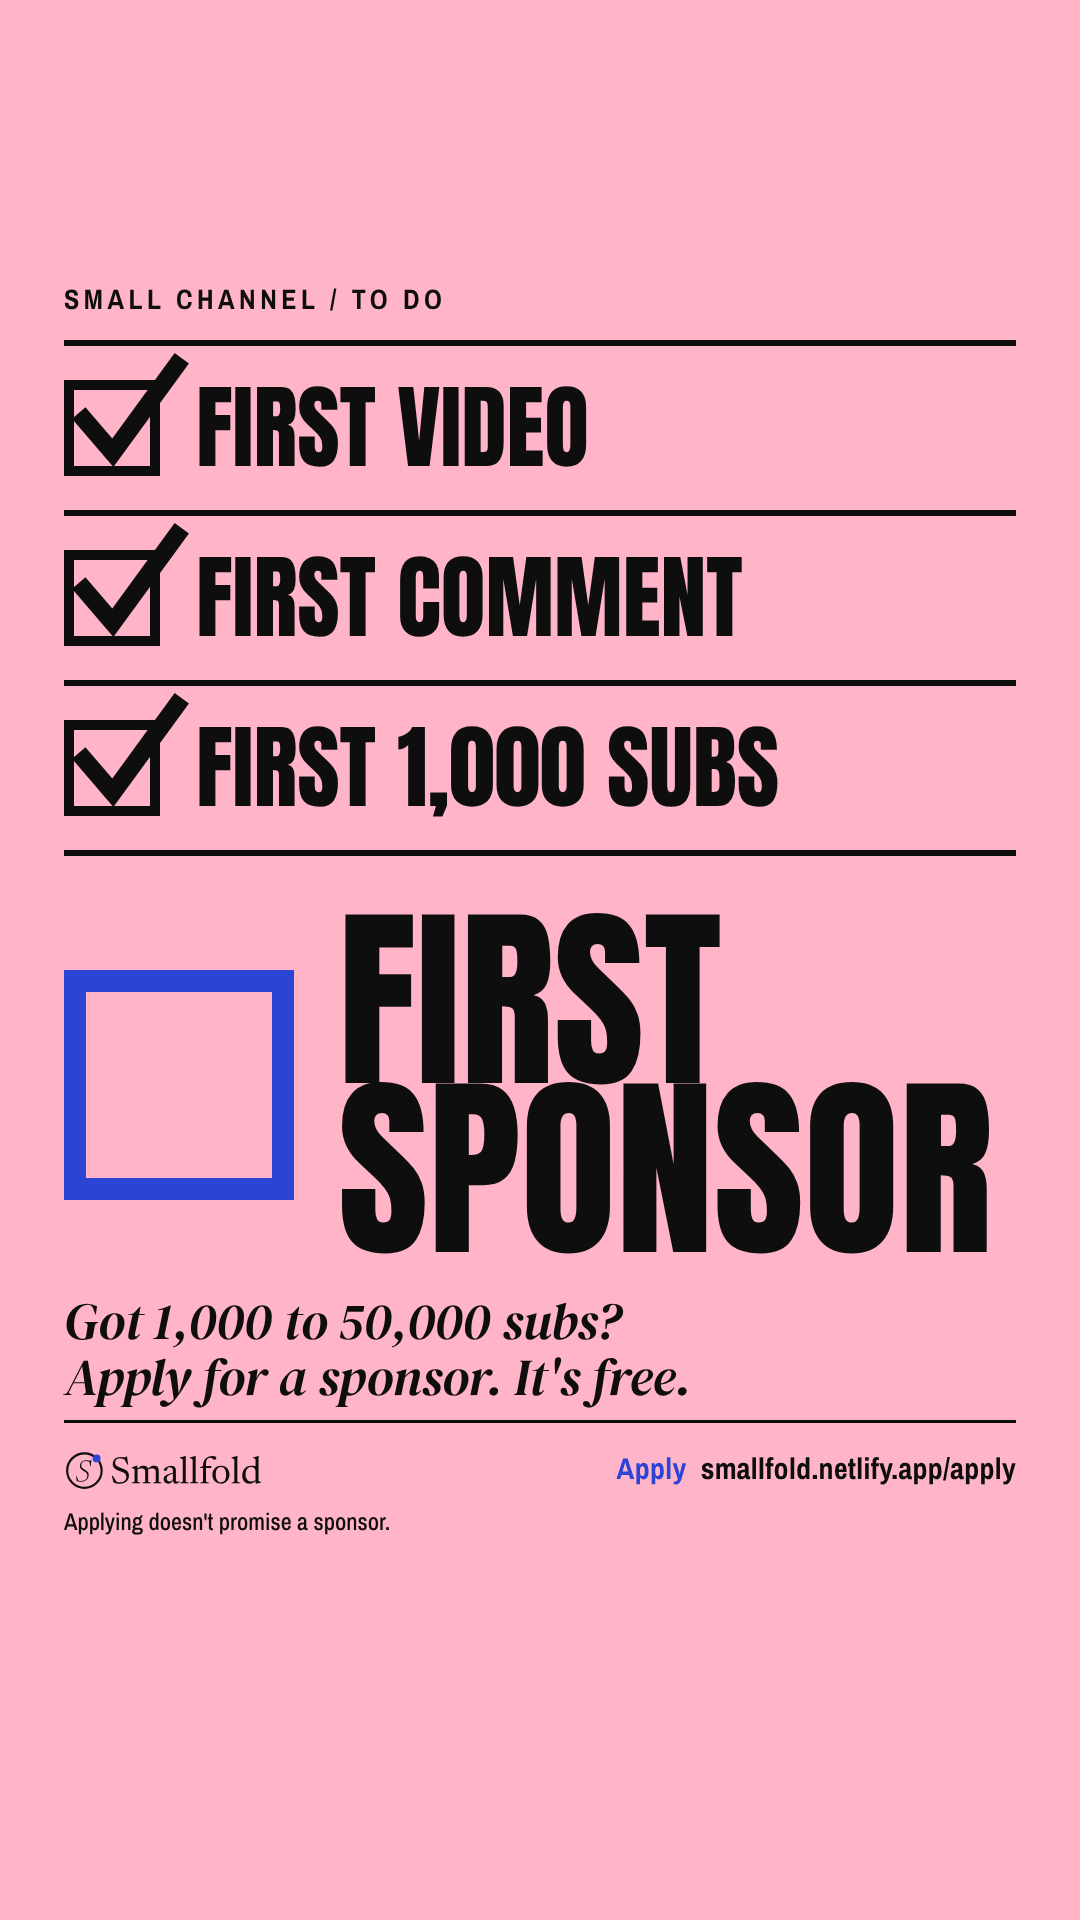
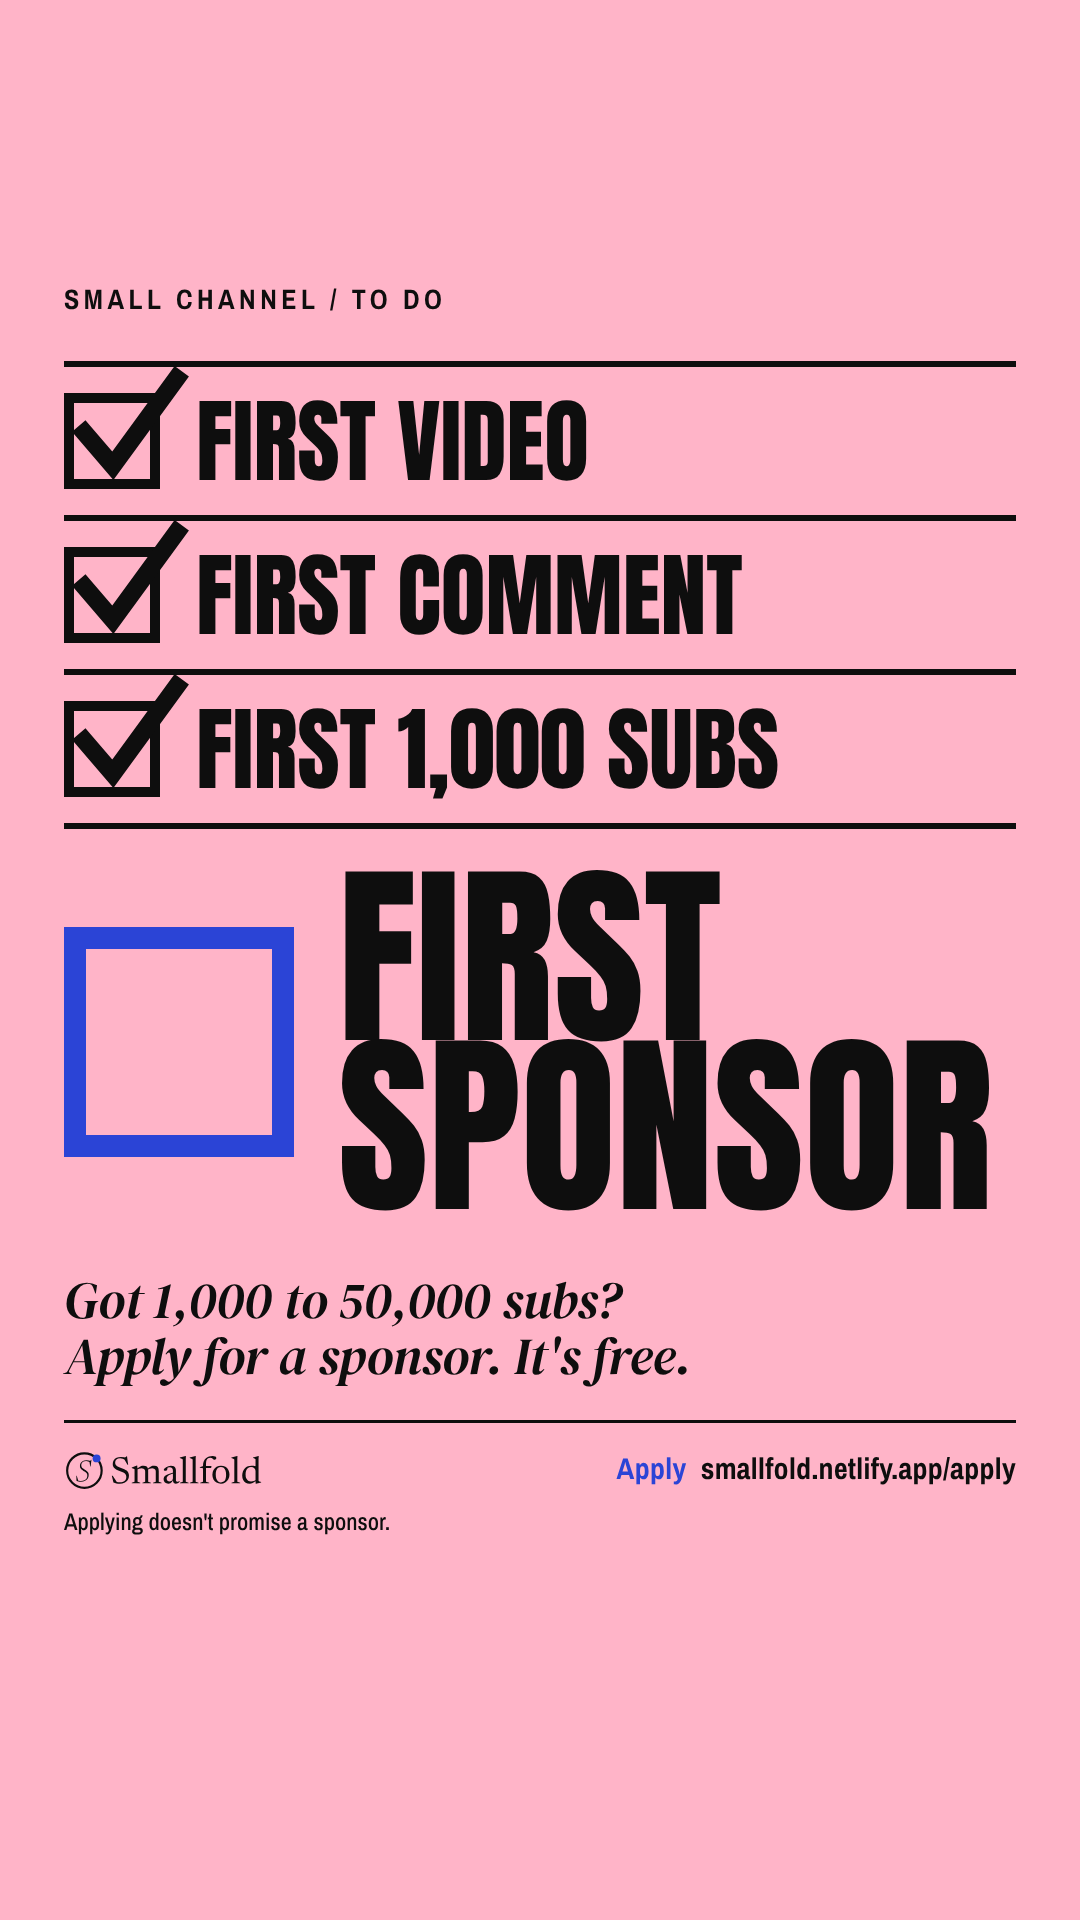
Marketing v2: poster design system, template, proofs and render tools
Claude-Session: https://claude.ai/code/session_01C9y4eM2ouem5CxaBRuPxVL

Changed region(s): [[0.0611, 0.1562, 0.9472, 0.75], [0.0611, 0.4688, 0.275, 0.5312], [0.0611, 0.5938, 0.275, 0.625]]

diff --git a/marketing/v2/posters/src/proof-c.html b/marketing/v2/posters/src/proof-c.html
@@ -55,18 +55,19 @@ body{width:var(--W);height:var(--H);overflow:hidden}
 .foot .ai{white-space:nowrap}
 
 
-.sky{position:absolute;left:0;right:0;top:0;height:600px;background:#FFD400}
-html.f-9x16 .sky{height:830px}
+.sky{position:absolute;left:0;right:0;top:0;height:590px;background:#FFD400}
+html.f-9x16 .sky{height:800px}
 .stage{justify-content:space-between}
 .title{position:relative;color:#0E0E0E}
 .title .big{font-size:520px;line-height:.78;margin-left:-8px;margin-top:20px;display:block}
-.title .tag{font-size:46px;margin-top:34px}
-.bill{display:flex;flex-direction:column}
+.title .tag{font-size:46px;margin-top:26px}
+.bill{display:flex;flex-direction:column;margin-top:30px}
 .bill .cr{font-family:"Archivo Narrow";font-weight:700;font-size:40px;letter-spacing:.14em;text-transform:uppercase;line-height:1.4;border-top:2px solid rgba(241,239,235,.35);padding:8px 0 4px}
 .bill .cr:first-child{border-top:none}
 .bill .sp{font-size:118px;margin-top:16px;display:flex;align-items:baseline;gap:.12em;border-top:6px solid var(--fg);padding-top:26px}
-.bill .sp .blank{flex:1;height:.42em;--br:.02em}
-html.f-9x16 .bill .cr{font-size:48px;line-height:1.7}
+.bill .sp .blank{flex:1;height:.46em;--br:.02em}
+html.f-9x16 .title .big{margin-top:0}
+html.f-9x16 .bill{margin-top:70px}
 
 </style>
 </head>

diff --git a/marketing/v2/posters/src/proof-b.html b/marketing/v2/posters/src/proof-b.html
@@ -65,8 +65,8 @@ body{width:var(--W);height:var(--H);overflow:hidden}
 .row.last{padding:36px 0 0;border-bottom:none;gap:44px;align-items:center}
 .row.last .box{flex:0 0 230px;width:230px;height:230px;border:22px solid var(--blue)}
 .row.last .t{font-size:196px;line-height:.86;white-space:normal}
-html.f-9x16 .row{padding:34px 0}
-html.f-9x16 .row.last{padding:60px 0 0}
+html.f-9x16 .row{padding:26px 0}
+html.f-9x16 .row.last{padding:44px 0 0}
 
 </style>
 </head>

diff --git a/marketing/v2/posters/src/proof-a.html b/marketing/v2/posters/src/proof-a.html
@@ -62,8 +62,8 @@ body{width:var(--W);height:var(--H);overflow:hidden}
 .mono .l3{font-size:226px}
 .mono .blank{display:block;width:100%;height:250px;margin-top:26px;--br:.02em}
 .stage{justify-content:space-between}
-html.f-9x16 .mono{gap:16px}
-html.f-9x16 .mono .blank{height:380px;margin-top:40px}
+html.f-9x16 .mono{gap:10px}
+html.f-9x16 .mono .blank{height:250px;margin-top:30px}
 
 </style>
 </head>

diff --git a/marketing/v2/posters/design-system.md b/marketing/v2/posters/design-system.md
@@ -1,0 +1,151 @@
+# Poster series design system: "The Blank"
+
+Reference build: `src/_template.html` (tokens + footer), `src/proof-a|b|c.html` (generated by `tools/build-proofs.cjs`), rendered by `tools/render.cjs` to `out/`.
+
+## 1. The idea
+
+A flat, loud colour field, one enormous piece of condensed type, and one thick pen-blue bar that is the only blue on the sheet. Everything else is small and quiet, set like the credits and legal line of a real printed poster, so the blank is the thing the eye lands on in one second. It should look like a cinema one-sheet or a street poster pinned to a wall: ink on colour, big margins, nothing floating.
+
+Never: stickers or caption plates on photographs; app screens, cards, chips, pills, buttons or any interface look; video-thumbnail composition (face + arrow + yellow text outline); stock-ad gloss (smiling laptop people, gradients, drop-shadow glows). No play button, no YouTube mark, no emoji, no gradients.
+
+## 2. Grid and margins
+
+| | 4:5 (1080 x 1350) | 9:16 (1080 x 1920) |
+|---|---|---|
+| Side margins | 64 | 64 |
+| Content width | 952 | 952 |
+| Top margin | 64 | 280 (safe zone top 14% = 269) |
+| Bottom edge of footer | 1286 (64 margin) | 1536 (safe zone: bottom 20% = 384 stays empty colour) |
+| Columns | 12, gutter 24 (col = 52.7) | same |
+| Baseline unit | 8 px; vertical gaps are multiples of 8 | same |
+
+- Everything is left-aligned to x = 64 and right-aligned to x = 1016. No centred headlines.
+- 9:16: only background colour (or a full-bleed colour block, as in proof C) may occupy the top 269 and bottom 384 px. Text, logo, blank and footer stay inside y = 280 to 1536.
+- Implemented as CSS tokens `--W --H --mx --top --bottom`; `html.f-9x16` swaps them. `?format=9x16` selects the size.
+
+## 3. Typography (3 families)
+
+| Job | Family | Why |
+|---|---|---|
+| Display | **Anton** 400 | Tall, tight, heavy: the most "printed poster" face in the set and it fits a big sentence into 952 px. |
+| Wit / support line | **DM Serif Display** italic | A human, dry voice against the shouting display; the contrast is the joke. |
+| Footer, labels, credits | **Archivo Narrow** 500 / 700 | Narrow and sturdy at 24 px; reads like legal print without turning into a web UI font. |
+
+- Display: ALL CAPS only. Sizes 150 to 226 px for the monument lines (set each line to fit 952 px wide: "THIS VIDEO IS" 198, "SPONSORED" 226), 90 to 200 px for list/billing lines, up to 520 px for a single short word ("SOLO"). Line-height 0.92 (0.78 for a single giant word). Tracking -0.005em (0). Never below 88 px.
+- Support line: DM Serif Display italic, 52 px, line-height 1.08, sentence case, always broken as "Got 1,000 to 50,000 subs? / Apply for a sponsor. It's free." Tagline/wit lines 44 to 52 px.
+- Labels and credits: Archivo Narrow 700, 28 to 40 px, UPPERCASE, tracking +0.14em to +0.16em.
+- Footer: Archivo Narrow 500 24 px (disclaimer, AI note), 700 30 px (Apply line). Minimum text size anywhere: 22 px. Never faux-bold or fake-italic.
+- No widows: a headline line is never a single short word dangling unless it is the deliberate "BY" before the blank (give it a full line to itself).
+
+## 4. Colour
+
+Backgrounds are flat. The text colour and the blank colour are fixed per background. Ratios computed WCAG 2.x.
+
+| Name | Background | Text | Text ratio | Blank / Apply | Blank ratio | Logo |
+|---|---|---|---|---|---|---|
+| Cream | #F1EFEB | ink #0E0E0E | 16.8 | #2B44D6 | 6.3 | logo.svg |
+| Signal yellow | #FFD400 | ink #0E0E0E | 13.5 | #2B44D6 | 5.1 | logo.svg |
+| Bubblegum | #FFB4C8 | ink #0E0E0E | 11.6 | #2B44D6 | 4.4 | logo.svg |
+| Ink | #0E0E0E | cream #F1EFEB | 16.8 | #A8B4FF | 9.8 | logo-on-ink.svg |
+| Forest | #0B4A34 | cream #F1EFEB | 8.9 | #A8B4FF | 5.2 | logo-on-ink.svg |
+| Oxblood | #7A1426 | cream #F1EFEB | 9.4 | #A8B4FF | 5.4 | logo-on-ink.svg |
+
+Rule: light backgrounds (cream, yellow, bubblegum) use pen blue #2B44D6; dark backgrounds (ink, forest, oxblood) use #A8B4FF. Never mix. Blue appears only as the blank and the "Apply" mark (plus the empty checkbox when it stands in for the blank). Do not use red/orange backgrounds: #2B44D6 drops under 3:1 on them and the blank stops being the loudest thing. A secondary flat shape may borrow another palette colour (proof C uses a yellow block on ink) but the background stays one of the six.
+
+## 5. The blank
+
+- Always a solid pen-blue bar. Never filled in, never outlined, never has text inside, never replaced by underscores.
+- Corner radius: 0.04em (about 2 to 9 px); essentially square, slightly softened. Never a pill.
+- Inline, text-size (CSS `.blank`): `display:inline-block; width:3.2em; height:0.22em`; the bottom edge sits exactly on the text baseline (an empty inline-block does this natively). With Anton (cap height about 0.82em) that is a bar about 27% of cap height, the weight of a heavy stem.
+- At 22 to 40 px text size the bar must still be at least 8 px tall: use `height: max(.22em, 8px)`.
+- Fill-the-line (proof C, "SPONSORED BY ____"): flex row, `align-items:baseline`, the bar takes the remaining width, height 0.46em, bottom on the baseline.
+- Monument (proof A): the bar is a block of its own on a full 952 px measure, 250 px tall (about 1.2 x the cap height of the line above), directly under "BY", 26 to 30 px gap. It is the largest single shape on the poster.
+- Empty-box variant (checklist): 230 px square, 22 px blue border, empty centre.
+- The logo and the blank are never adjacent: keep at least 300 px between them.
+
+## 6. Footer strip
+
+Anchored at the bottom of the safe area (bottom edge y = 1286 in 4:5, 1536 in 9:16). Full 952 px wide.
+
+1. 36 px gap above; 3 px rule in text colour, full width; 20 px padding.
+2. Row 1 (50 px tall, space-between, vertically centred): left, logo at height 46 px (about 200 px wide); right, "Apply" in Archivo Narrow 700 30 px in blue (#2B44D6 / #A8B4FF), two non-breaking spaces, then "smallfold.netlify.app/apply" in 700 30 px text colour.
+3. Row 2 (14 px below, 24 px type, line-height 1.2): left "Applying doesn't promise a sponsor." (500); right, only if a generated picture is used, "Image made with AI" (500, right-aligned to x = 1016).
+4. Total height about 150 px including the gap. Logo variant follows the background table.
+
+## 7. Image treatment (used rarely; budget about four pictures)
+
+Two permitted treatments, never mixed on one poster:
+
+- **Cut-out on flat colour.** A transparent-background object, placed on a poster colour, with a drawn hard shadow (offset 24 px right, 24 px down, same silhouette, solid #0E0E0E at 100% on light, or a darker tint of the background on dark; no blur). The object is cropped by the poster edge, not floated: bleed it off at least one side, or sit it on a ruled baseline. It is 55 to 70% of poster width. Type stays in the top or bottom third, never over the object.
+- **Full-bleed studio photograph.** An object on a seamless single-colour sweep with hard directional light and a strong shadow, filling the whole canvas; the background colour of the photo is one of the six palette colours (or the nearest printable match). Headline set over the empty part of the sweep, in ink or cream, 150 px or larger. Crop so the object sits on a third line; never centred dead on.
+- Add "Image made with AI" to the footer. No faces, no hands holding phones, no logos, no text in the picture, no gradients, no lens flare. Photographs are ordinary objects shot like packshots.
+
+Example Higgsfield prompts:
+
+1. Cut-out: "A single empty white cardboard shipping box, closed, plain, no markings, photographed straight-on at a slight three-quarter angle, hard directional studio light from upper left, crisp shadow edge, isolated on a fully transparent background, no text, no logos, no people."
+2. Full-bleed: "Studio packshot of one empty museum plinth, matte white, with a single hard spotlight from above casting a sharp-edged shadow, on a seamless single-colour flat yellow (#FFD400) backdrop, camera low and straight on, plenty of empty space in the upper half, no text, no faces, no logos."
+3. Cut-out: "A single plain black wooden clapperboard, completely blank slate with no writing, closed, hard directional light from the right, strong crisp shadow, on a seamless single flat bubblegum pink (#FFB4C8) background, product photography, no text, no people, no logos."
+
+## 8. Layout archetypes
+
+**A. Type monument** (proof A: yellow). One sentence, each line justified to the full 952 px, sizes stepping up toward the blank, blank as the biggest shape. Support line bottom-left above the footer.
+
+```
++--------------------------+
+| THIS VIDEO IS            |
+| SPONSORED                |
+| BY                       |
+| [########################]|
+| [########################]|
+|                          |
+| Got 1,000 to 50,000 subs?|
+| Apply for a sponsor.     |
+|--------------------------|
+| logo          Apply  url |
+| Applying doesn't promise |
++--------------------------+
+```
+
+**B. Object hero.** One cut-out or full-bleed object, headline of 7 words or fewer in the top third in Anton, hard shadow, blank sits in the headline, not on the object.
+
+```
++--------------------------+
+| SPONSORED BY [####]      |
+|                          |
+|        .--------.        |
+|        | OBJECT |##      |
+|        '--------'##      |
+| Got 1,000 ... free.      |
+|--------------------------|
+| logo   Apply  url        |
+| Applying ...   Image made with AI
++--------------------------+
+```
+
+**C. Document / parody format** (proof B: checklist on bubblegum; proof C: film one-sheet on ink). The poster is a recognisable printed document: ruled list, billing block, name tag, wanted notice. Items shrink toward the top; the last item (with the blank) is two to three times larger.
+
+```
++--------------------------+       +--------------------------+
+| SMALL CHANNEL / TO DO    |       |##########################|
+|==========================|       |## S O L O ###############|
+| [v] FIRST VIDEO          |       |## a one-person crew #####|
+| [v] FIRST COMMENT        |       |==========================|
+| [v] FIRST 1,000 SUBS     |       | WRITTEN BY YOU           |
+|==========================|       | FILMED BY YOU            |
+| [ ]  FIRST               |       | EDITED BY YOU            |
+| [ ]  SPONSOR             |       | SPONSORED BY [####]      |
+| Got 1,000 ...  free.     |       | Got 1,000 ...  free.     |
+| footer                   |       | footer                   |
++--------------------------+       +--------------------------+
+```
+
+## 9. Do / do not
+
+1. Do set one thing enormous and everything else at 24 to 52 px.
+2. Do keep to the six backgrounds and the fixed text/blue pairings.
+3. Do align everything to the 64 px margins and 8 px vertical rhythm.
+4. Do keep the blank loud: biggest or boldest blue shape, always on the baseline.
+5. Do not fill in, outline, shrink, animate or decorate the blank, or put the logo beside it.
+6. Do not put captions, stickers, chips, pills or UI cards on a picture.
+7. Do not centre a heading on a plain background or use a face, selfie or play-button shape.
+8. Do not set any text under 22 px, put anything in the 9:16 top 14% or bottom 20%, or promise a sponsor, money, results or urgency.
